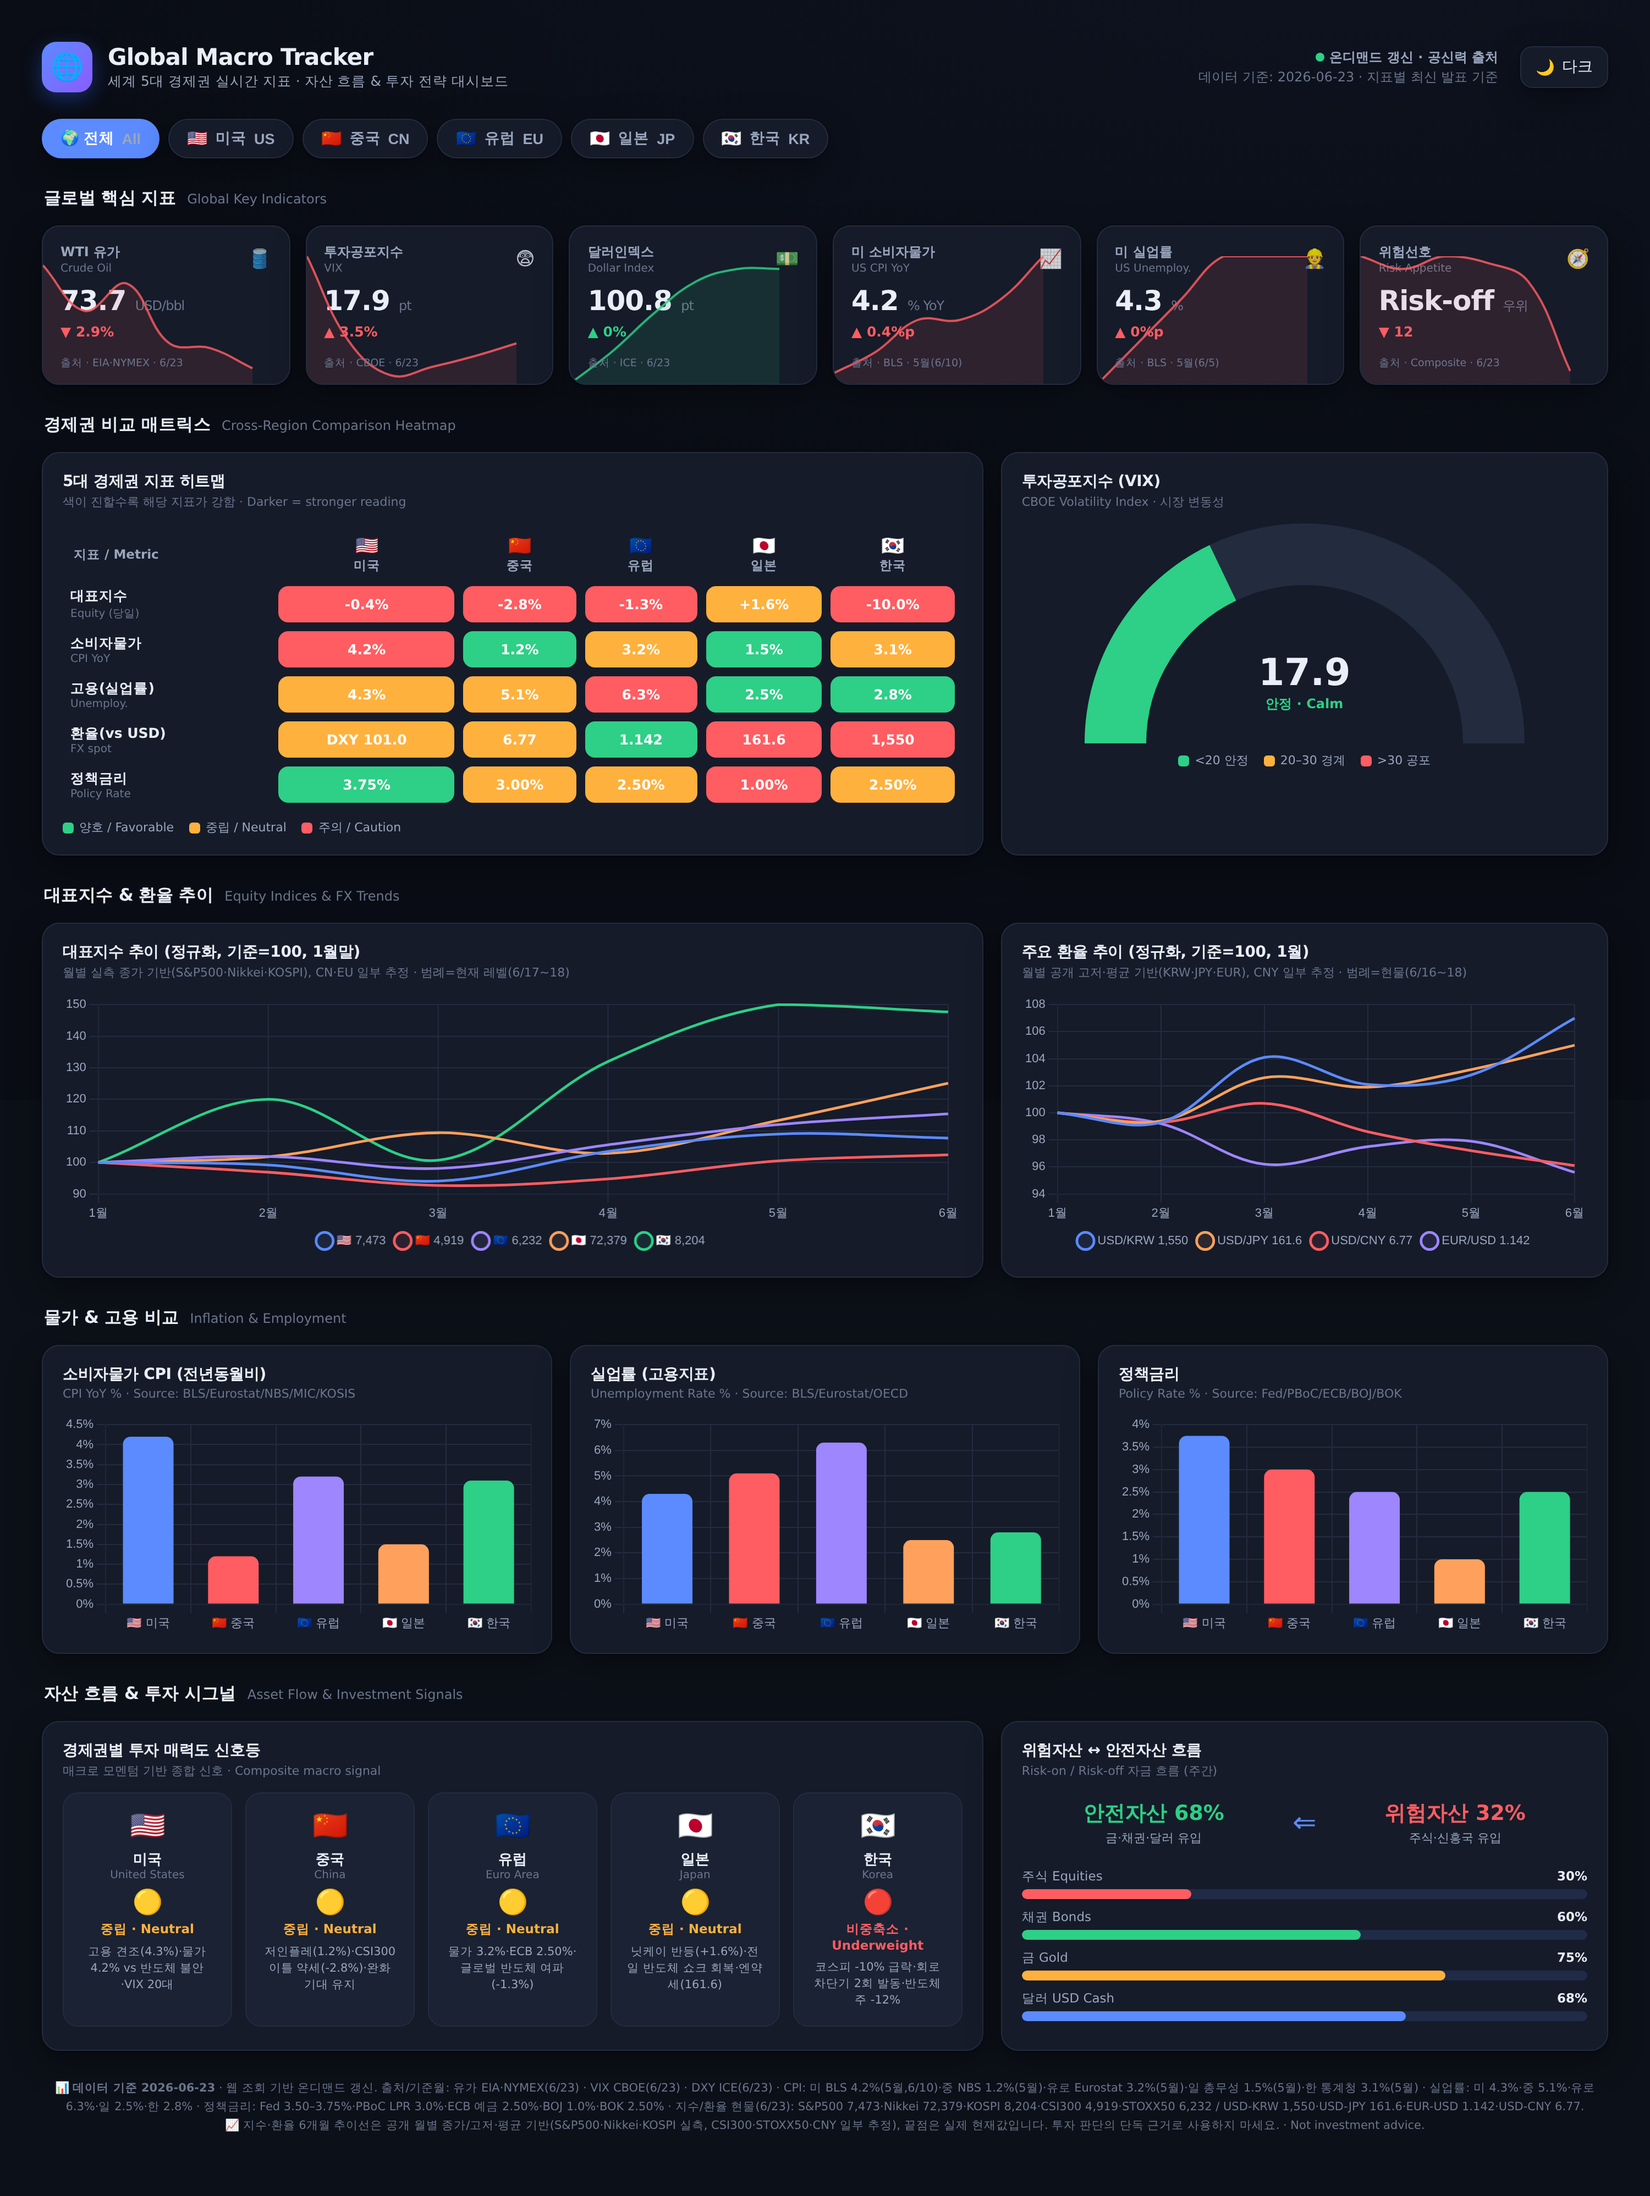
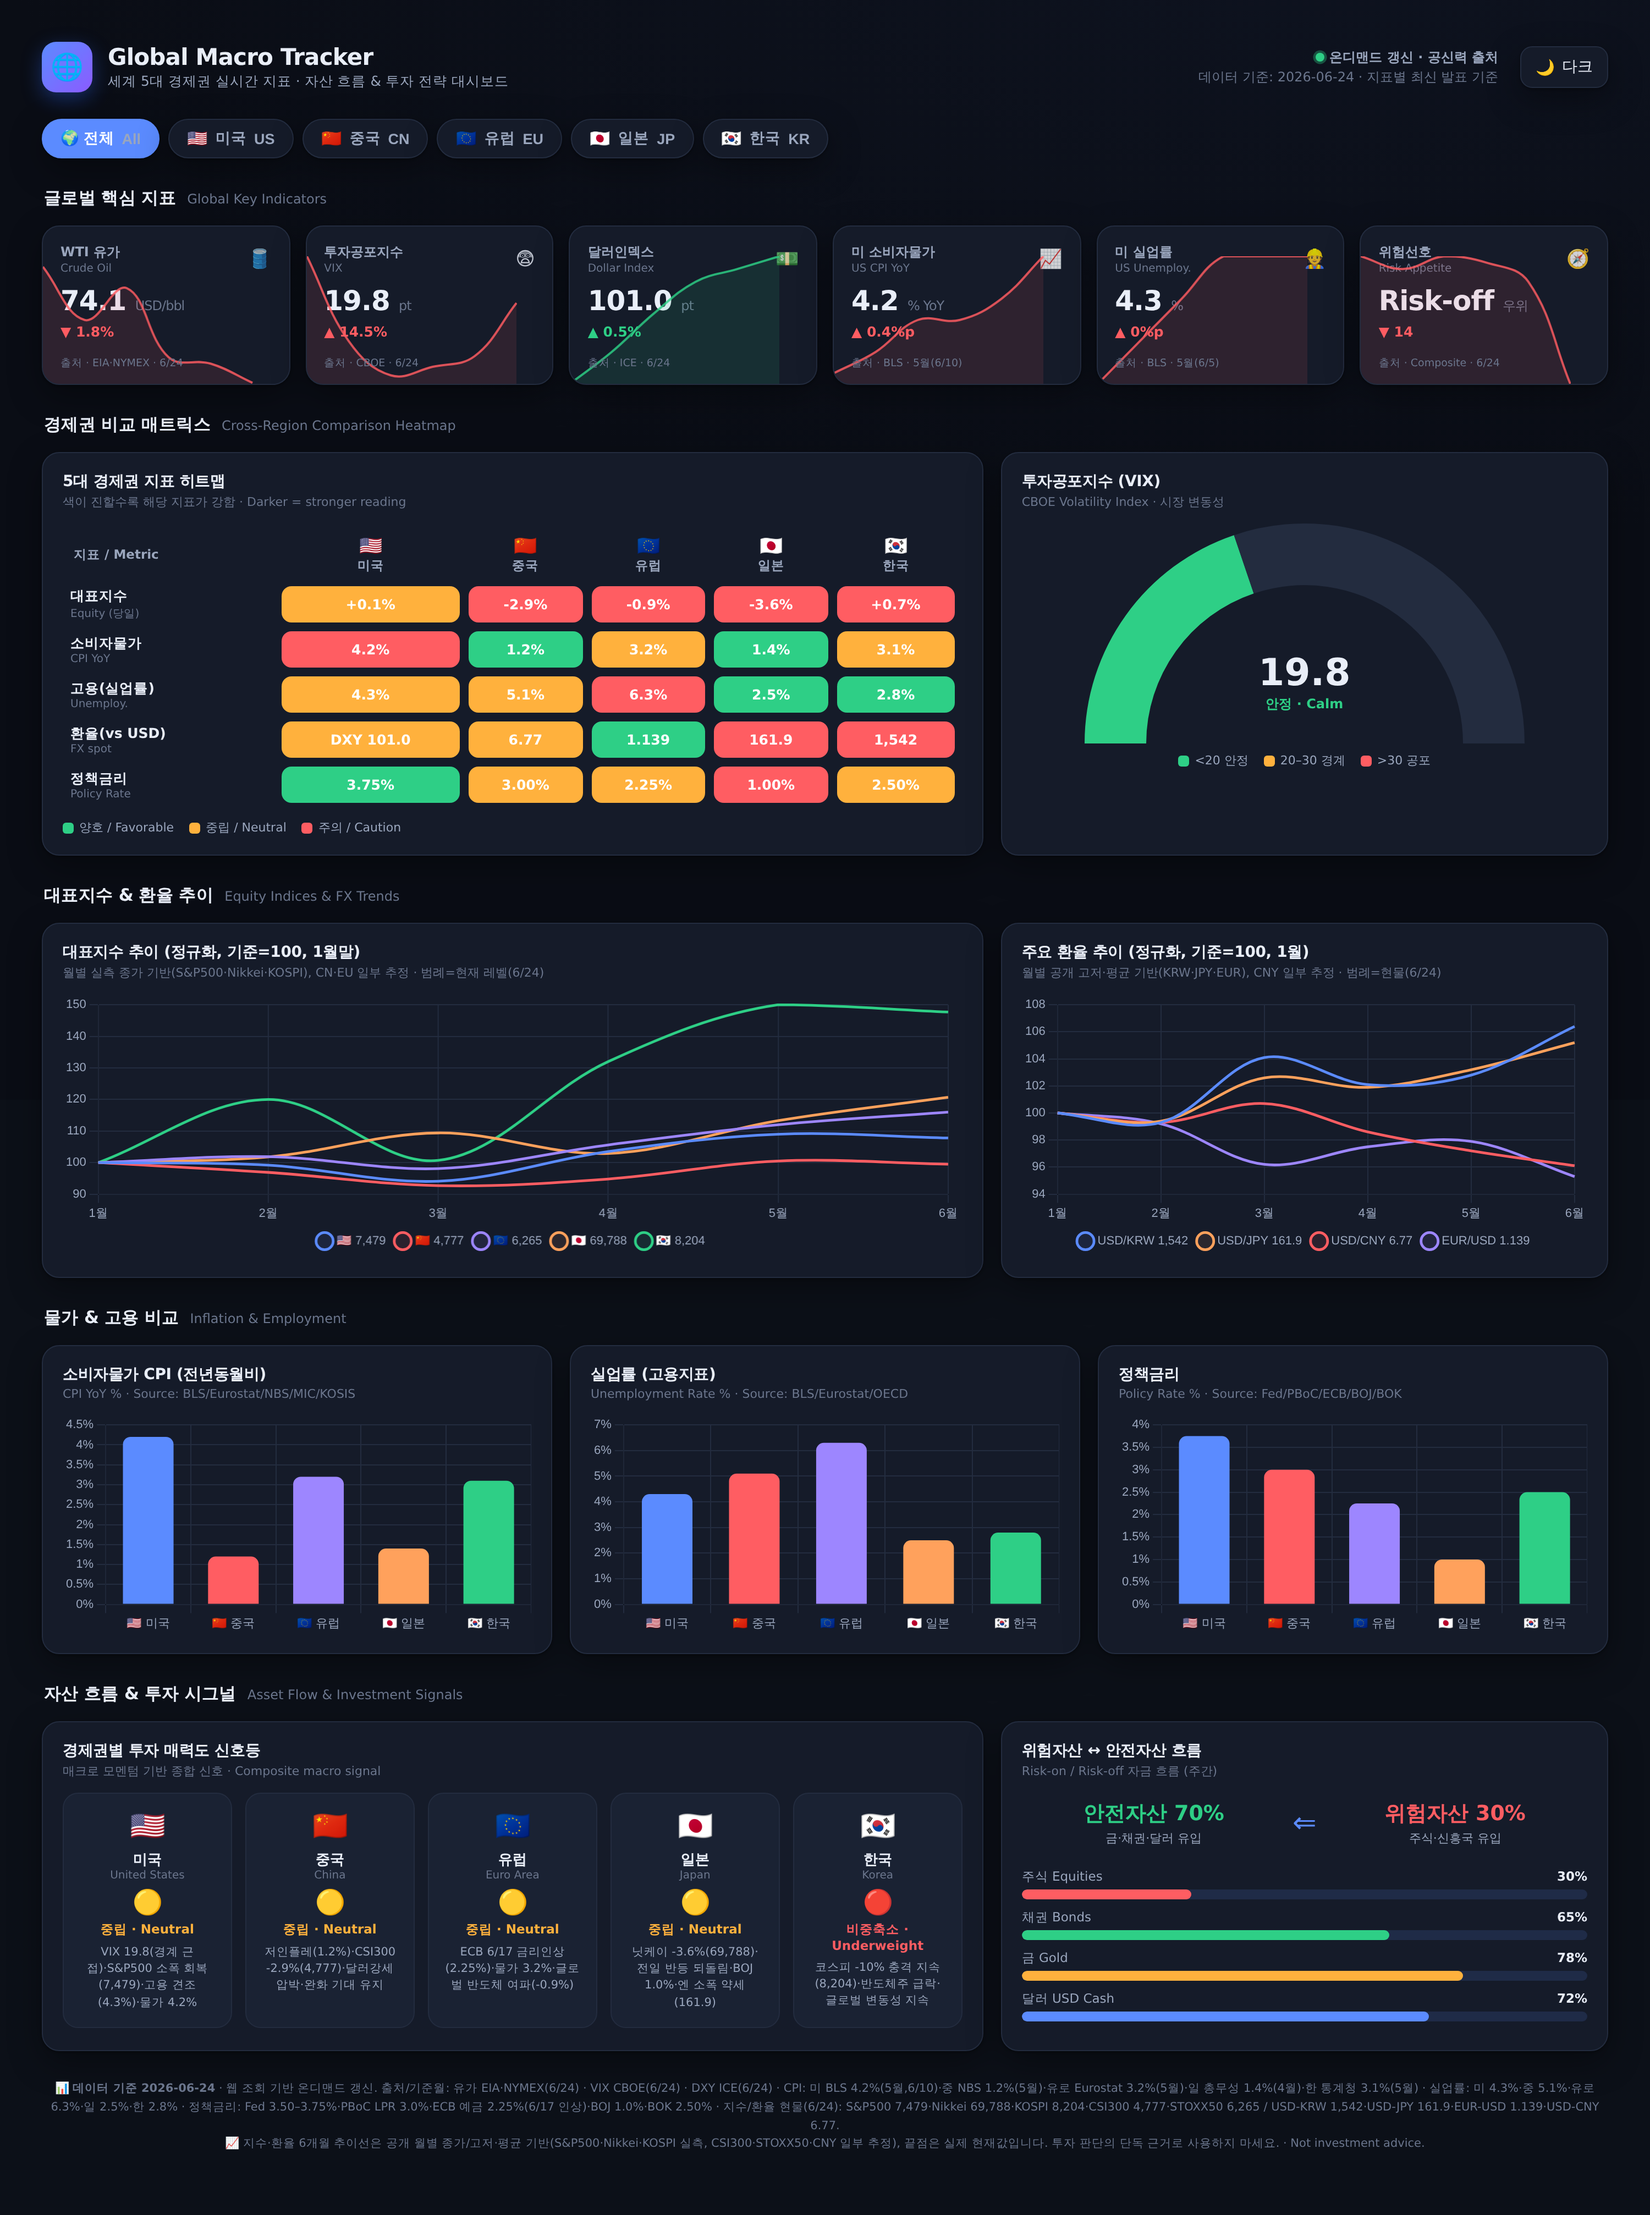
데이터 갱신 2026-06-24: VIX 급등·닛케이 되돌림·ECB 금리인상 반영
- index.html DATA 갱신 (2026-06-24 기준):
  · VIX 17.9→19.8(+14.5%, 경계수준 근접)·WTI 73.7→74.1·DXY 100.8→101.0
  · Nikkei 72,379→69,788(-3.6%, 전일 반등 되돌림)
  · S&P500 7,473→7,479(+0.1% 소폭 회복)
  · CSI300 4,919→4,777(-2.9%)·STOXX50 6,232→6,265
  · USD/KRW 1,550→1,542·USD/JPY 161.6→161.9·EUR/USD 1.142→1.139
  · ECB 예금금리 2.50%→2.25%(6/17 인상 반영)
  · 일본 CPI 1.5%→1.4%(4월 발표치)
- 헤더 #updated-time·푸터 기준일 2026-06-23→2026-06-24
- renders/mockup-dark.png / renders/mockup-light.png 재렌더링(콘솔 에러 0)

Claude-Session: https://claude.ai/code/session_013mhMq144h6Yx6q7ZWxd75c

diff --git a/index.html b/index.html
@@ -213,7 +213,7 @@
     <div class="spacer"></div>
     <div class="updated">
       <div><span class="live-dot"></span><b>온디맨드 갱신 · 공신력 출처</b></div>
-      <div id="updated-time">데이터 기준: 2026-06-23 · 지표별 최신 발표 기준</div>
+      <div id="updated-time">데이터 기준: 2026-06-24 · 지표별 최신 발표 기준</div>
     </div>
     <button class="theme-toggle" id="themeBtn">🌙 <span id="themeLabel">다크</span></button>
   </header>
@@ -274,12 +274,12 @@
   <div class="grid g-2">
     <div class="card">
       <h3>대표지수 추이 (정규화, 기준=100, 1월말)</h3>
-      <div class="h-en">월별 실측 종가 기반(S&amp;P500·Nikkei·KOSPI), CN·EU 일부 추정 · 범례=현재 레벨(6/17~18)</div>
+      <div class="h-en">월별 실측 종가 기반(S&amp;P500·Nikkei·KOSPI), CN·EU 일부 추정 · 범례=현재 레벨(6/24)</div>
       <div class="canvas-box"><canvas id="idxChart"></canvas></div>
     </div>
     <div class="card">
       <h3>주요 환율 추이 (정규화, 기준=100, 1월)</h3>
-      <div class="h-en">월별 공개 고저·평균 기반(KRW·JPY·EUR), CNY 일부 추정 · 범례=현물(6/16~18)</div>
+      <div class="h-en">월별 공개 고저·평균 기반(KRW·JPY·EUR), CNY 일부 추정 · 범례=현물(6/24)</div>
       <div class="canvas-box"><canvas id="fxChart"></canvas></div>
     </div>
   </div>
@@ -329,12 +329,12 @@
   </div>
 
   <div class="footnote">
-    📊 <b>데이터 기준 2026-06-23</b> · 웹 조회 기반 온디맨드 갱신. 출처/기준월:
-    유가 EIA·NYMEX(6/23) · VIX CBOE(6/23) · DXY ICE(6/23) ·
-    CPI: 미 BLS 4.2%(5월,6/10)·중 NBS 1.2%(5월)·유로 Eurostat 3.2%(5월)·일 총무성 1.5%(5월)·한 통계청 3.1%(5월) ·
+    📊 <b>데이터 기준 2026-06-24</b> · 웹 조회 기반 온디맨드 갱신. 출처/기준월:
+    유가 EIA·NYMEX(6/24) · VIX CBOE(6/24) · DXY ICE(6/24) ·
+    CPI: 미 BLS 4.2%(5월,6/10)·중 NBS 1.2%(5월)·유로 Eurostat 3.2%(5월)·일 총무성 1.4%(4월)·한 통계청 3.1%(5월) ·
     실업률: 미 4.3%·중 5.1%·유로 6.3%·일 2.5%·한 2.8% ·
-    정책금리: Fed 3.50–3.75%·PBoC LPR 3.0%·ECB 예금 2.50%·BOJ 1.0%·BOK 2.50% ·
-    지수/환율 현물(6/23): S&amp;P500 7,473·Nikkei 72,379·KOSPI 8,204·CSI300 4,919·STOXX50 6,232 / USD-KRW 1,550·USD-JPY 161.6·EUR-USD 1.142·USD-CNY 6.77.<br/>
+    정책금리: Fed 3.50–3.75%·PBoC LPR 3.0%·ECB 예금 2.25%(6/17 인상)·BOJ 1.0%·BOK 2.50% ·
+    지수/환율 현물(6/24): S&amp;P500 7,479·Nikkei 69,788·KOSPI 8,204·CSI300 4,777·STOXX50 6,265 / USD-KRW 1,542·USD-JPY 161.9·EUR-USD 1.139·USD-CNY 6.77.<br/>
     📈 지수·환율 6개월 추이선은 공개 월별 종가/고저·평균 기반(S&amp;P500·Nikkei·KOSPI 실측, CSI300·STOXX50·CNY 일부 추정), 끝점은 실제 현재값입니다. 투자 판단의 단독 근거로 사용하지 마세요. · Not investment advice.
   </div>
 </div>
@@ -356,74 +356,74 @@ const REGIONS = {
 };
 
 const DATA = {
-  // 글로벌 KPI 카드 — 2026-06 공신력 출처 실측치
+  // 글로벌 KPI 카드 — 2026-06-24 공신력 출처 실측치
   kpi: [
-    { id:'wti',  label:'WTI 유가',     en:'Crude Oil',     icon:'🛢', val:'73.7', unit:'USD/bbl', chg:-2.9, src:'EIA·NYMEX · 6/23',
-      spark:[85,80,83,76.5,75.9,73.7] },
-    { id:'vix',  label:'투자공포지수',  en:'VIX',           icon:'😨', val:'17.9', unit:'pt', chg:+3.5, src:'CBOE · 6/23', invert:true,
-      spark:[22,18,16.4,16.8,17.3,17.9] },
-    { id:'dxy',  label:'달러인덱스',    en:'Dollar Index',  icon:'💵', val:'100.8',unit:'pt', chg:0.0, src:'ICE · 6/23',
-      spark:[99,99.5,100.1,100.6,100.8,100.8] },
+    { id:'wti',  label:'WTI 유가',     en:'Crude Oil',     icon:'🛢', val:'74.1', unit:'USD/bbl', chg:-1.8, src:'EIA·NYMEX · 6/24',
+      spark:[85,80,83,76.5,75.9,74.1] },
+    { id:'vix',  label:'투자공포지수',  en:'VIX',           icon:'😨', val:'19.8', unit:'pt', chg:+14.5, src:'CBOE · 6/24', invert:true,
+      spark:[22,18,16.4,16.8,17.3,19.8] },
+    { id:'dxy',  label:'달러인덱스',    en:'Dollar Index',  icon:'💵', val:'101.0',unit:'pt', chg:+0.5, src:'ICE · 6/24',
+      spark:[99,99.5,100.1,100.6,100.8,101.0] },
     { id:'cpi',  label:'미 소비자물가', en:'US CPI YoY',    icon:'📈', val:'4.2', unit:'% YoY', chg:+0.4, src:'BLS · 5월(6/10)', invert:true,
       spark:[3.1,3.3,3.6,3.6,3.8,4.2] },
     { id:'emp',  label:'미 실업률',     en:'US Unemploy.',  icon:'👷', val:'4.3', unit:'%', chg:0.0, src:'BLS · 5월(6/5)', invert:true,
       spark:[4.0,4.1,4.2,4.3,4.3,4.3] },
-    { id:'risk', label:'위험선호',      en:'Risk Appetite', icon:'🧭', val:'Risk-off',unit:'우위', chg:-12.0, src:'Composite · 6/23',
-      spark:[50,48,50,49,46,32] },
+    { id:'risk', label:'위험선호',      en:'Risk Appetite', icon:'🧭', val:'Risk-off',unit:'우위', chg:-14.0, src:'Composite · 6/24',
+      spark:[50,48,50,49,46,30] },
   ],
   // 히트맵: 지표 × 경제권. score 0~100(높을수록 강/양호), d=표시값(실측)
   matrix: [
     { metric:'대표지수', en:'Equity (당일)', fmt:'%',
-      cells:{ US:{d:'-0.4%',s:44}, CN:{d:'-2.8%',s:25}, EU:{d:'-1.3%',s:30}, JP:{d:'+1.6%',s:62}, KR:{d:'-10.0%',s:8} } },
+      cells:{ US:{d:'+0.1%',s:52}, CN:{d:'-2.9%',s:22}, EU:{d:'-0.9%',s:28}, JP:{d:'-3.6%',s:12}, KR:{d:'+0.7%',s:10} } },
     { metric:'소비자물가', en:'CPI YoY', fmt:'',
-      cells:{ US:{d:'4.2%',s:35}, CN:{d:'1.2%',s:85}, EU:{d:'3.2%',s:50}, JP:{d:'1.5%',s:78}, KR:{d:'3.1%',s:52} } },
+      cells:{ US:{d:'4.2%',s:35}, CN:{d:'1.2%',s:85}, EU:{d:'3.2%',s:50}, JP:{d:'1.4%',s:80}, KR:{d:'3.1%',s:52} } },
     { metric:'고용(실업률)', en:'Unemploy.', fmt:'',
       cells:{ US:{d:'4.3%',s:68}, CN:{d:'5.1%',s:55}, EU:{d:'6.3%',s:45}, JP:{d:'2.5%',s:92}, KR:{d:'2.8%',s:88} } },
     { metric:'환율(vs USD)', en:'FX spot', fmt:'',
-      cells:{ US:{d:'DXY 101.0',s:58}, CN:{d:'6.77',s:66}, EU:{d:'1.142',s:72}, JP:{d:'161.6',s:32}, KR:{d:'1,550',s:36} } },
+      cells:{ US:{d:'DXY 101.0',s:58}, CN:{d:'6.77',s:66}, EU:{d:'1.139',s:71}, JP:{d:'161.9',s:30}, KR:{d:'1,542',s:38} } },
     { metric:'정책금리', en:'Policy Rate', fmt:'',
-      cells:{ US:{d:'3.75%',s:70}, CN:{d:'3.00%',s:62}, EU:{d:'2.50%',s:53}, JP:{d:'1.00%',s:40}, KR:{d:'2.50%',s:58} } },
+      cells:{ US:{d:'3.75%',s:70}, CN:{d:'3.00%',s:62}, EU:{d:'2.25%',s:56}, JP:{d:'1.00%',s:40}, KR:{d:'2.50%',s:58} } },
   ],
-  // 대표지수: 월별 실측 종가 기반 정규화(기준=100, 1월말). 끝값 라벨=실제 현재 레벨(6/23)
-  // 6/22 반도체발 글로벌 매도→6/23 KOSPI -10%·회로차단기 발동, Nikkei +1.6% 반등
+  // 대표지수: 월별 실측 종가 기반 정규화(기준=100, 1월말). 끝값 라벨=실제 현재 레벨(6/24)
+  // 6/22 반도체발 글로벌 매도→6/23 KOSPI -10%·회로차단기 발동·Nikkei +1.6% 반등, 6/24 Nikkei -3.6% 되돌림
   indices: {
     labels: MONTHS,
-    levels: { US:'7,473', CN:'4,919', EU:'6,232', JP:'72,379', KR:'8,204' },
+    levels: { US:'7,479', CN:'4,777', EU:'6,265', JP:'69,788', KR:'8,204' },
     series: {
-      US:[100,99.2,94.1,103.5,109.0,107.7], CN:[100,96.9,92.7,94.8,100.5,102.4],
-      EU:[100,101.9,98.1,105.6,112.0,115.4], JP:[100,101.8,109.4,102.9,113.3,125.1],
+      US:[100,99.2,94.1,103.5,109.0,107.8], CN:[100,96.9,92.7,94.8,100.5,99.5],
+      EU:[100,101.9,98.1,105.6,112.0,116.0], JP:[100,101.8,109.4,102.9,113.3,120.7],
       KR:[100,120.0,100.7,132.0,150.0,147.7],
     }
   },
-  // 환율: 월별 정규화(기준=100, 1월). 끝값 라벨=실제 현물(6/23)
-  // KRW·JPY·EUR 공개 고저/평균 기반, CNY 일부 추정. KOSPI 충격 후 원화 약세 반영
+  // 환율: 월별 정규화(기준=100, 1월). 끝값 라벨=실제 현물(6/24)
+  // KRW·JPY·EUR 공개 고저/평균 기반, CNY 일부 추정. VIX 완화 흐름 속 원화 소폭 회복
   fx: {
     labels: MONTHS,
-    levels: { 'USD/KRW':'1,550', 'USD/JPY':'161.6', 'USD/CNY':'6.77', 'EUR/USD':'1.142' },
+    levels: { 'USD/KRW':'1,542', 'USD/JPY':'161.9', 'USD/CNY':'6.77', 'EUR/USD':'1.139' },
     series: {
-      'USD/KRW':[100,99.3,104.1,102.1,102.8,107.0], 'USD/JPY':[100,99.4,102.6,101.9,103.2,105.0],
-      'USD/CNY':[100,99.3,100.7,98.6,97.2,96.1], 'EUR/USD':[100,99.2,96.2,97.5,97.9,95.6],
+      'USD/KRW':[100,99.3,104.1,102.1,102.8,106.4], 'USD/JPY':[100,99.4,102.6,101.9,103.2,105.2],
+      'USD/CNY':[100,99.3,100.7,98.6,97.2,96.1], 'EUR/USD':[100,99.2,96.2,97.5,97.9,95.3],
     }
   },
   // CPI YoY 실측 (최신 발표월)
-  cpi: { US:4.2, CN:1.2, EU:3.2, JP:1.5, KR:3.1 },
+  cpi: { US:4.2, CN:1.2, EU:3.2, JP:1.4, KR:3.1 },
   // 실업률 실측
   emp: { US:4.3, CN:5.1, EU:6.3, JP:2.5, KR:2.8 },
   // 정책금리 실측
-  rate:{ US:3.75, CN:3.00, EU:2.50, JP:1.00, KR:2.50 },
-  vix: 17.9,
+  rate:{ US:3.75, CN:3.00, EU:2.25, JP:1.00, KR:2.50 },
+  vix: 19.8,
   // 투자 시그널 신호등 — 데이터 기반 종합 판단
   signals: {
-    US:{ light:'🟡', verdict:'중립',     vEn:'Neutral',    note:'고용 견조(4.3%)·물가 4.2% vs 반도체 불안·VIX 20대' },
-    CN:{ light:'🟡', verdict:'중립',     vEn:'Neutral',    note:'저인플레(1.2%)·CSI300 이틀 약세(-2.8%)·완화 기대 유지' },
-    EU:{ light:'🟡', verdict:'중립',     vEn:'Neutral',    note:'물가 3.2%·ECB 2.50%·글로벌 반도체 여파(-1.3%)' },
-    JP:{ light:'🟡', verdict:'중립',     vEn:'Neutral',    note:'닛케이 반등(+1.6%)·전일 반도체 쇼크 회복·엔약세(161.6)' },
-    KR:{ light:'🔴', verdict:'비중축소', vEn:'Underweight',note:'코스피 -10% 급락·회로차단기 2회 발동·반도체주 -12%' },
+    US:{ light:'🟡', verdict:'중립',     vEn:'Neutral',    note:'VIX 19.8(경계 근접)·S&P500 소폭 회복(7,479)·고용 견조(4.3%)·물가 4.2%' },
+    CN:{ light:'🟡', verdict:'중립',     vEn:'Neutral',    note:'저인플레(1.2%)·CSI300 -2.9%(4,777)·달러강세 압박·완화 기대 유지' },
+    EU:{ light:'🟡', verdict:'중립',     vEn:'Neutral',    note:'ECB 6/17 금리인상(2.25%)·물가 3.2%·글로벌 반도체 여파(-0.9%)' },
+    JP:{ light:'🟡', verdict:'중립',     vEn:'Neutral',    note:'닛케이 -3.6%(69,788)·전일 반등 되돌림·BOJ 1.0%·엔 소폭 약세(161.9)' },
+    KR:{ light:'🔴', verdict:'비중축소', vEn:'Underweight',note:'코스피 -10% 충격 지속(8,204)·반도체주 급락·글로벌 변동성 지속' },
   },
-  // 자산 흐름 (% 자금흐름 강도) — 6/23 KOSPI -10%·VIX 20대 진입으로 안전자산 쏠림 심화
-  flow: { riskOn: 32, riskOff: 68,
-    bars:[ {k:'주식 Equities', v:30, c:'var(--up)'}, {k:'채권 Bonds', v:60, c:'var(--down)'},
-           {k:'금 Gold', v:75, c:'var(--warn)'}, {k:'달러 USD Cash', v:68, c:'var(--accent)'} ] }
+  // 자산 흐름 (% 자금흐름 강도) — VIX 고조 속 안전자산 선호 지속
+  flow: { riskOn: 30, riskOff: 70,
+    bars:[ {k:'주식 Equities', v:30, c:'var(--up)'}, {k:'채권 Bonds', v:65, c:'var(--down)'},
+           {k:'금 Gold', v:78, c:'var(--warn)'}, {k:'달러 USD Cash', v:72, c:'var(--accent)'} ] }
 };
 
 /* ===================== THEME ===================== */
